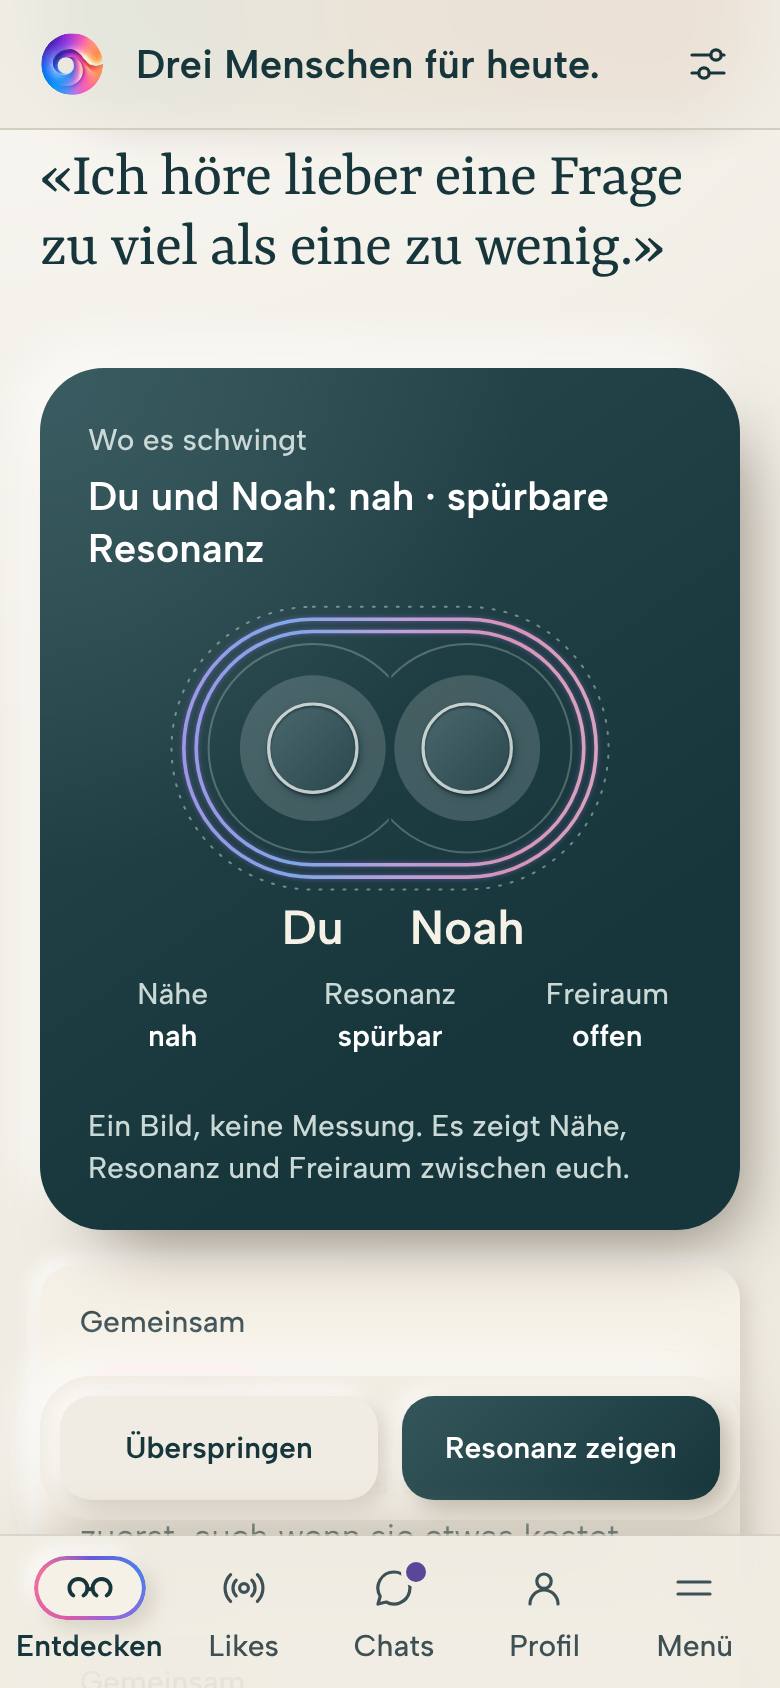
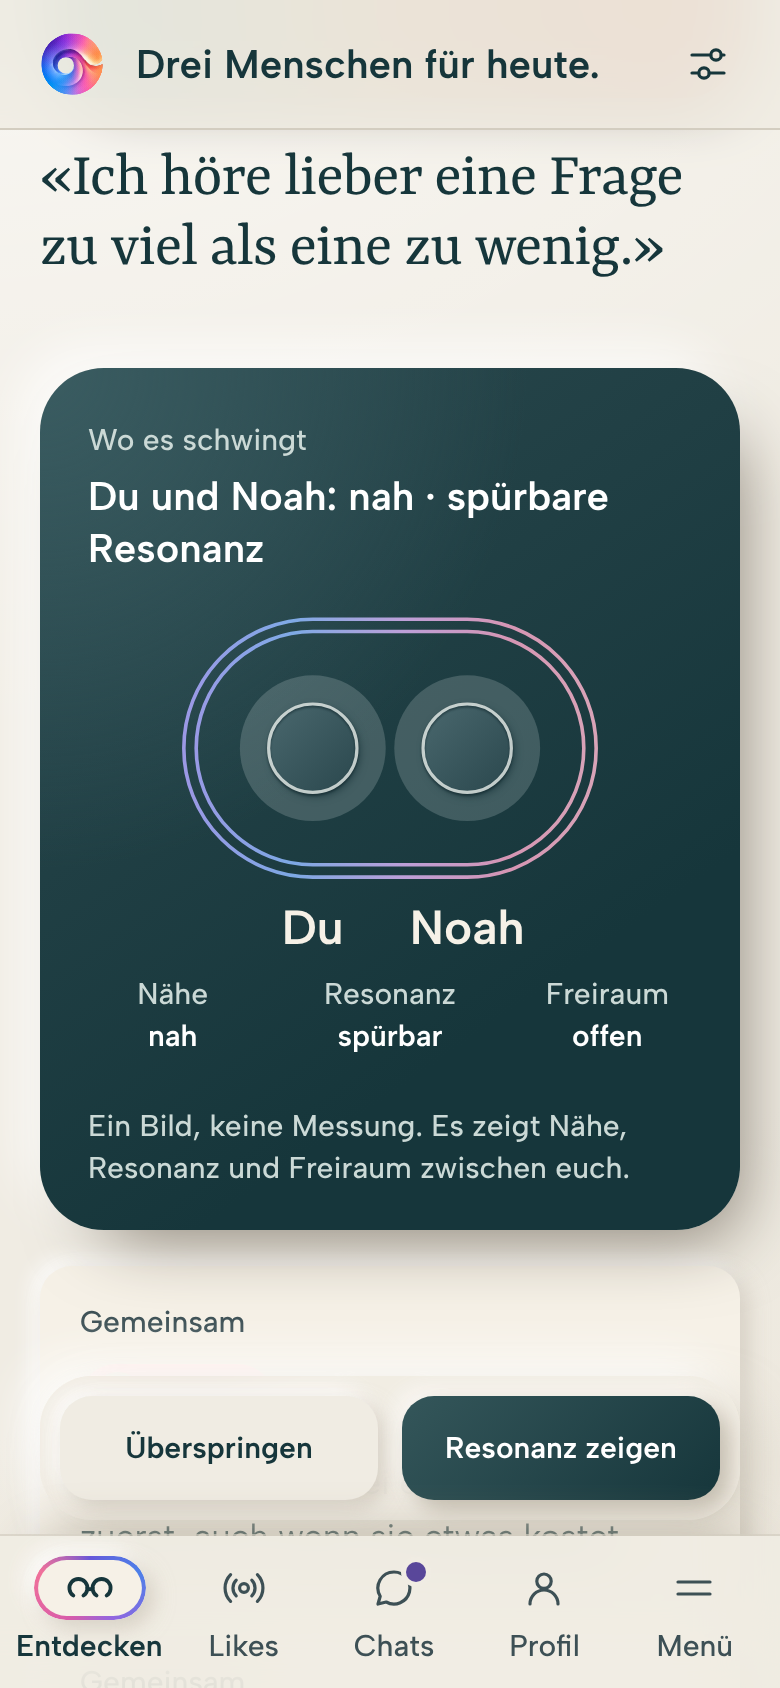
Beziehungsraum ruhiger: nur was gilt
Keine Hilfslinie für das Höchstmass des Freiraums, keine gepunkteten
Feldlinien, kein Leuchten. Der Verlauf im Spektrum bleibt.

Claude-Session: https://claude.ai/code/session_01GcUU3Qg4dj9oPnZ4iDHoTB

diff --git a/components/beziehungsraum/beziehungsraum.js b/components/beziehungsraum/beziehungsraum.js
@@ -2,11 +2,10 @@
    ELANUM Beziehungsraum
    Zwei Menschen, jeder Wert mit eigenem Zeichen:
    - Nähe ist der Abstand der zwei Personenkreise. Sie überlappen nie.
-   - Freiraum ist die helle Fläche um jede Person. Eine feine Linie zeigt,
-     wie gross sie höchstens wird. In der Mitte endet der eigene Platz dort,
-     wo der des anderen beginnt.
-   - Resonanz ist das Feld um beide: null bis drei leuchtende Linien, die
-     übrigen stehen gepunktet da.
+   - Freiraum ist die helle Fläche um jede Person. In der Mitte endet der
+     eigene Platz dort, wo der des anderen beginnt.
+   - Resonanz ist das Feld um beide: null bis drei Linien im Spektrum.
+   Das Bild zeigt nur, was gilt: keine Hilfslinien, kein Leuchten.
    Unter dem Bild stehen die drei Werte als Wort. Ohne: data-skala="aus".
    Eine Uhr bewegt alle Darstellungen gemeinsam: 3,4 s Raum geben, 4,4 s zur
    Ruhe kommen. Es atmet nur der Freiraum (höchstens 5 %) und das Leuchten.
@@ -35,7 +34,7 @@
   };
   var KEYS = ['proximity', 'resonance', 'openness'];
   /* Masse im SVG-Raum 720 × 400. */
-  var CY = 170, PERSON = 50, ROOM = [66, 112], ROOM_MAX = 118, FIELD = [132, 146, 160], GAP = [190, 10];
+  var CY = 170, PERSON = 50, ROOM = [66, 112], FIELD = [132, 146, 160], GAP = [190, 10];
   function level(key, value) {
     var steps = SCALE[key].steps, i = 0;
     while (i < steps.length - 1 && value >= steps[i][1]) i++;
@@ -85,7 +84,7 @@
   function mount(container) {
     if (container._beziehung) return container._beziehung;
     var svg = container.querySelector('svg'), dark = container.hasAttribute('data-dark');
-    var id = frames.length, ink = dark ? '#E8EEEA' : '#16363B', quiet = dark ? '#CBD9D6' : '#3D5055';
+    var id = frames.length, ink = dark ? '#E8EEEA' : '#16363B';
     var defs = svgEl('defs', {});
     var gradient = svgEl('linearGradient', { id: 'bz-gradient-' + id, gradientUnits: 'userSpaceOnUse', x1: 0, y1: CY, x2: 720, y2: CY });
     var colors = dark ? ['#B4A4FF', '#8DBBFF', '#D7B0F1', '#F4A5C7', '#F9B8CD'] : ['#6756D9', '#4D7FE8', '#9466DF', '#D85BA9', '#F0719A'];
@@ -105,10 +104,9 @@
     });
     var side = function (clip) {
       var g = svgEl('g', { 'clip-path': 'url(#' + clip + id + ')' });
-      var limit = svgEl('circle', { cy: CY, r: ROOM_MAX, fill: 'none', stroke: quiet, 'stroke-width': 1, opacity: dark ? .3 : .4, 'vector-effect': 'non-scaling-stroke', 'data-room-limit': '' });
       var room = svgEl('circle', { cy: CY, fill: dark ? '#DCE8E4' : '#16363B', opacity: dark ? .2 : .1, 'data-room': '' });
-      g.appendChild(limit); g.appendChild(room); svg.appendChild(g);
-      return { limit: limit, room: room };
+      g.appendChild(room); svg.appendChild(g);
+      return { room: room };
     };
     var roomA = side('bz-left-'), roomB = side('bz-right-');
     var disc = function () { var n = svgEl('circle', { cy: CY, r: PERSON, fill: 'url(#bz-relief-' + id + ')', class: 'relief-disc' }); svg.appendChild(n); return n; };
@@ -122,7 +120,7 @@
     };
     var frame = {
       container: container, svg: svg, gradient: gradient, field: field, roomA: roomA, roomB: roomB, discA: discA, discB: discB, a: a, b: b,
-      ink: ink, quiet: quiet, id: id, mode: 'spectrum', visible: false, target: Object.assign({}, start), current: Object.assign({}, start),
+      ink: ink, id: id, mode: 'spectrum', visible: false, target: Object.assign({}, start), current: Object.assign({}, start),
       labelA: container.querySelector('[data-person=a]'), labelB: container.querySelector('[data-person=b]'), width: 0, wide: 0,
       scale: buildScale(container), scaleKey: '', img: container.getAttribute('role') === 'img', base: '', label: null
     };
@@ -150,17 +148,16 @@
     var cxA = 360 - gap / 2 - PERSON, cxB = 720 - cxA;
     var room = (ROOM[0] + (ROOM[1] - ROOM[0]) * Math.max(0, Math.min(100, s.openness)) / 100) * (1 + .05 * breath);
     [[f.roomA, cxA], [f.roomB, cxB]].forEach(function (r) {
-      r[0].limit.setAttribute('cx', r[1]); r[0].room.setAttribute('cx', r[1]); r[0].room.setAttribute('r', room);
+      r[0].room.setAttribute('cx', r[1]); r[0].room.setAttribute('r', room);
     });
     [[f.discA, cxA], [f.discB, cxB], [f.a, cxA], [f.b, cxB]].forEach(function (d) { d[0].setAttribute('cx', d[1]); });
     var lvl = level('resonance', s.resonance);
     f.field.forEach(function (n, i) {
       var R = FIELD[i], on = i < lvl;
       n.setAttribute('d', 'M' + cxA + ' ' + (CY - R) + 'L' + cxB + ' ' + (CY - R) + 'A' + R + ' ' + R + ' 0 0 1 ' + cxB + ' ' + (CY + R) + 'L' + cxA + ' ' + (CY + R) + 'A' + R + ' ' + R + ' 0 0 1 ' + cxA + ' ' + (CY - R) + 'Z');
-      n.setAttribute('stroke', on ? (f.mode === 'ink' ? f.ink : 'url(#bz-gradient-' + f.id + ')') : f.quiet);
-      n.setAttribute('stroke-width', on ? 1.8 : 1);
-      n.setAttribute('stroke-dasharray', on ? 'none' : '1 5');
-      n.setAttribute('opacity', on ? .86 + .14 * breath : .5);
+      n.setAttribute('stroke', f.mode === 'ink' ? f.ink : 'url(#bz-gradient-' + f.id + ')');
+      n.setAttribute('stroke-width', 1.8);
+      n.setAttribute('opacity', on ? .86 + .14 * breath : 0);
       if (on) n.setAttribute('data-on', ''); else n.removeAttribute('data-on');
     });
     f.gradient.setAttribute('x1', cxA - FIELD[2]); f.gradient.setAttribute('x2', cxB + FIELD[2]);

diff --git a/index.html b/index.html
@@ -160,7 +160,7 @@
     <p class="lab__reading t-heading" id="labReading" aria-live="polite">Nah beieinander · spürbare Resonanz</p>
     <div class="lab__controls">
       <div class="control"><div class="control__head"><label for="proximity">Nähe</label><output id="proximityValue" for="proximity">nah</output></div><input type="range" id="proximity" min="0" max="100" value="58"><p>Der Abstand ändert sich, die Kreise überlappen nie.</p></div>
-      <div class="control"><div class="control__head"><label for="resonance">Resonanz</label><output id="resonanceValue" for="resonance">spürbar</output></div><input type="range" id="resonance" min="0" max="100" value="72"><p>Das Feld um beide: null bis drei leuchtende Linien.</p></div>
+      <div class="control"><div class="control__head"><label for="resonance">Resonanz</label><output id="resonanceValue" for="resonance">spürbar</output></div><input type="range" id="resonance" min="0" max="100" value="72"><p>Das Feld um beide: null bis drei Linien.</p></div>
       <div class="control"><div class="control__head"><label for="openness">Freiraum</label><output id="opennessValue" for="openness">offen</output></div><input type="range" id="openness" min="8" max="88" value="34"><p>Die helle Fläche zeigt den Platz um jeden.</p></div>
     </div>
     <div class="lab__foot">

diff --git a/components/beziehungsraum/beziehungsraum.css b/components/beziehungsraum/beziehungsraum.css
@@ -13,7 +13,7 @@
 [data-dark] .relationship-label span:not([data-name]){color:#CBD9D6}
 [data-dark] [data-contour]{filter:drop-shadow(0 2px 1px #071D23AA)}
 [data-contour]{stroke-linejoin:round;opacity:.8}
-[data-field][data-on]{filter:drop-shadow(0 0 3px #9466DFAA)}
+[data-field]{transition:opacity var(--motion-ui) ease}
 /* Die drei Werte als Wort: Name leise oben, Wert kräftig darunter. */
 .relationship-scale{display:grid;grid-template-columns:repeat(3,1fr);gap:8px;max-width:520px;margin:12px auto 16px;font:var(--type-label);text-align:center}
 .relationship-scale dt{color:var(--ink-2)}

diff --git a/DESIGN-NOTES.md b/DESIGN-NOTES.md
@@ -247,14 +247,14 @@ Im Zentrum steht das Resonanzrad mit neun Elementen: den Grundlagen, aus denen R
 
 **Umfeld** (`components/umfeld/`): Ich in der Mitte, Menschen als eigene, offene Kreise. Abstand zeigt Nähe, die Stärke der Linie die Resonanz, ohne aktive Resonanz gibt es keine Linie. Eine Liste ist die Bedienung, der gewählte Mensch öffnet den Beziehungsraum mit seinen Werten. So trägt das Umfeld mehr als eine einzelne Beziehung. Unter 560 px Breite gilt ein Hochformat mit grösseren Kreisen, damit die Namen in echten 15 px hineinpassen.
 
-**Beziehungsraum** (`components/beziehungsraum/`), neue Darstellung vom 15.11.2026 (Entwurf, PR 24). Der Baustein wird in der App ohne Regler gezeigt, darum muss das Bild allein lesbar sein. Jeder Wert hat ein eigenes Zeichen mit eigener Referenz:
+**Beziehungsraum** (`components/beziehungsraum/`), neue Darstellung vom 15.11.2026 (Entwurf, PR 24). Der Baustein wird in der App ohne Regler gezeigt, darum muss das Bild allein lesbar sein. Jeder Wert hat ein eigenes Zeichen:
 - SVG-Raum 720 × 400, Mitte y = 170. Die Person ist ein Kreis mit Radius 50, immer gleich gross.
 - **Nähe** ist der Abstand der zwei Personenkreise: Lücke 190 bei «weit» bis 10 bei «sehr nah» (190 − 1,8 × Nähe). Sie überlappen nie.
-- **Freiraum** ist die helle Fläche um jede Person, Radius 66 bis 112 (in der Atmung höchstens 117,6). Eine feine Linie bei Radius 118 zeigt, wie gross sie höchstens wird. In der Mitte endet der eigene Platz dort, wo der des anderen beginnt.
-- **Resonanz** ist das Feld um beide: drei Linien im Abstand 132, 146 und 160 um beide Personen. Null bis drei leuchten im Spektrum, die übrigen stehen gepunktet da. So liest man «zwei von drei», bei jedem Abstand gleich gut.
+- **Freiraum** ist die helle Fläche um jede Person, Radius 66 bis 112 (in der Atmung höchstens 117,6).  In der Mitte endet der eigene Platz dort, wo der des anderen beginnt.
+- **Resonanz** ist das Feld um beide: drei Linien im Abstand 132, 146 und 160 um beide Personen. Null bis drei stehen im Spektrum da, bei jedem Abstand gleich gut lesbar. Das Bild zeigt nur, was gilt: keine Hilfslinien, keine gepunkteten Linien, kein Leuchten. Eine erste Fassung zeigte das Höchstmass des Freiraums als feine Linie und die nicht geltenden Feldlinien gepunktet; das waren bis zu neun Linien und zu unruhig (Entscheid Chris, 15.11.2026). Die Stufe trägt das Wort darunter.
 - Unter dem Bild stehen die drei Werte als Wort (`.relationship-scale`, vom Skript erzeugt): Name leise oben, Wert kräftig darunter. Abschalten mit `data-skala="aus"` (Match-Moment in der App, Bewegungsbeispiel im Atlas). Der Vorlesetext des Bilds nennt die drei Stufen.
 - Namen sind HTML-Text unter den Personen. Stehen zwei Menschen sehr nah, rücken die Namen so weit auseinander, dass sie sich nicht berühren. Werte sind Gestaltungsparameter, keine Messung.
-- Es atmet nur der Freiraum (5 %) und das Leuchten des Felds.
+- Es atmet nur der Freiraum (5 %), das Feld wird im Atem leicht kräftiger.
 - Verworfen: die frühere Form mit zwei grossen Kreisen (Radius 128), Verbindungslinie und Öffnung unten. Bei grosser Nähe war die Resonanz nicht lesbar, die Öffnung sagte nichts über Freiraum, und es fehlte jede Referenz für Minimum und Maximum. Ebenfalls verworfen: Wortreihen mit allen Stufen, Messlinien, Beschriftung im Bild, Freiraum als Grösse des Personenkreises.
 - Seit 4.11.2 wird der Seitentitel der Bausteinseiten (`.page-intro h1`) unter 400 px Fensterbreite mit dem Fenster kleiner (13vw, bei 320 px sind das 41,6 px). Vorher war «Beziehungsraum» in 52 px 325 px breit, Platz waren 272 px.
 
